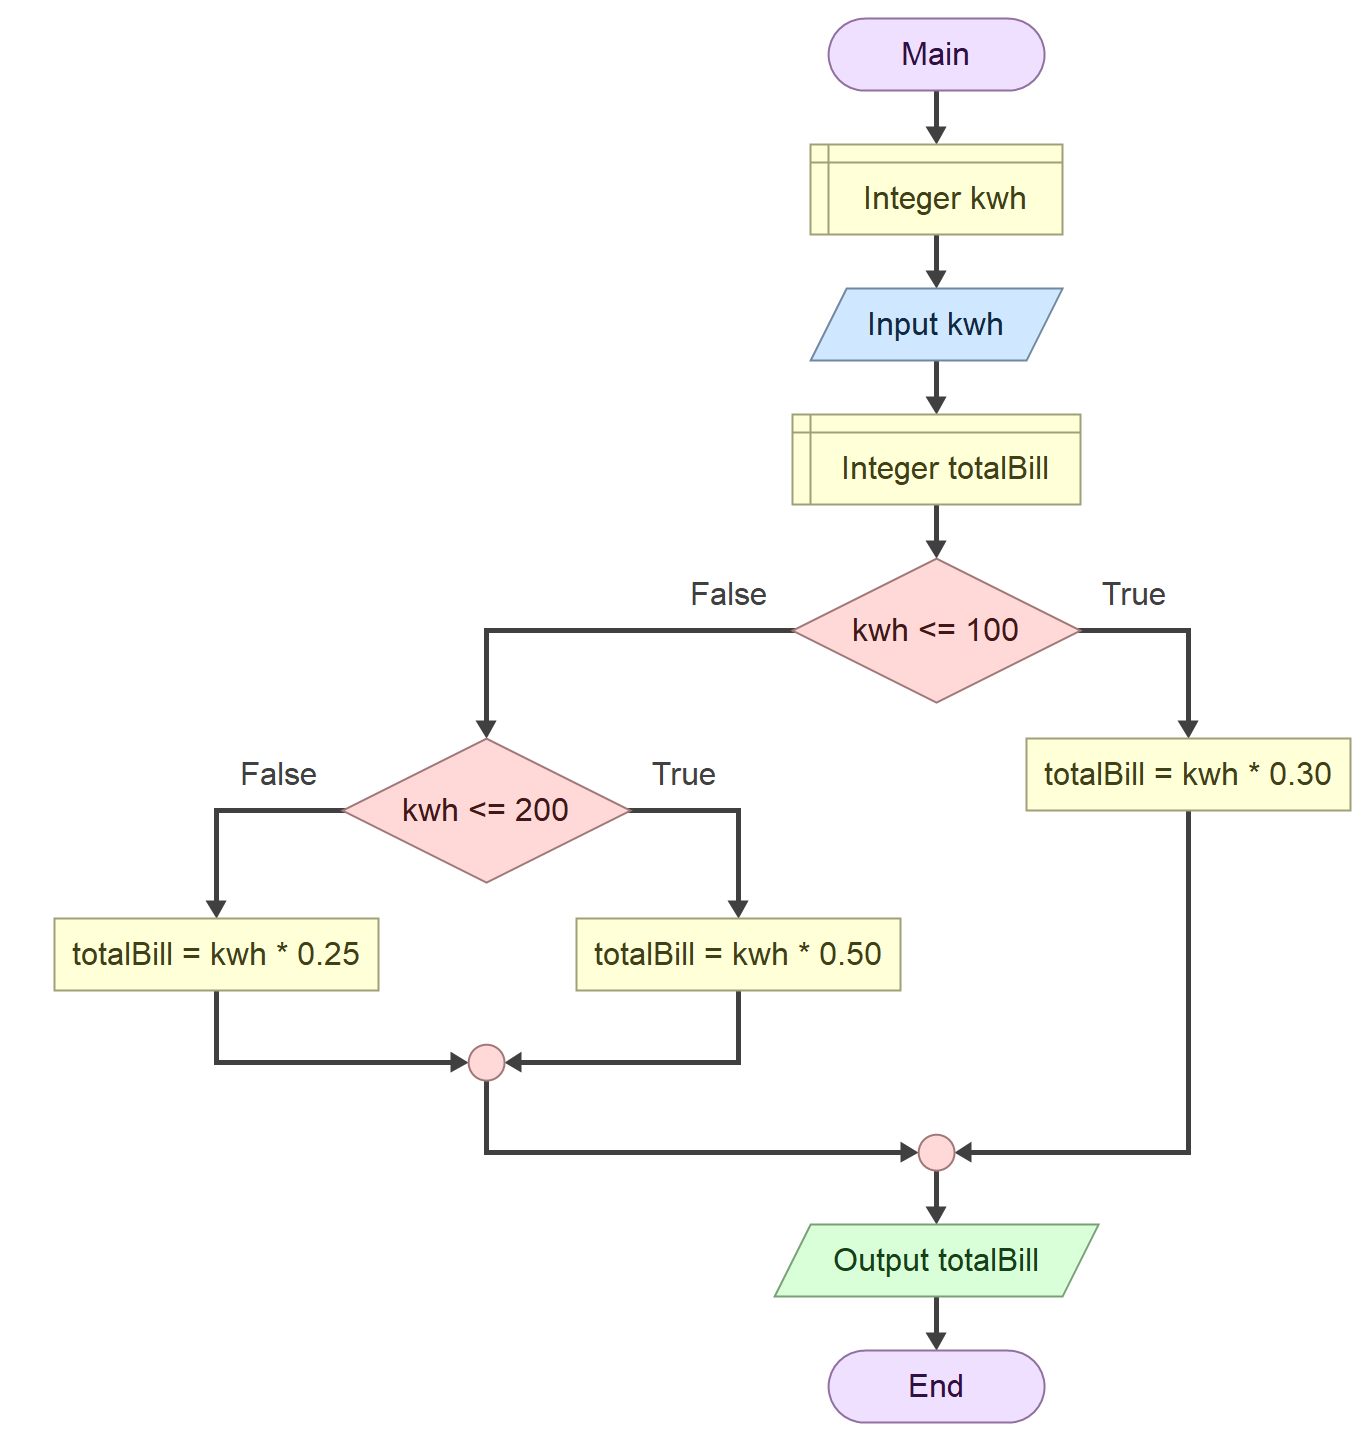
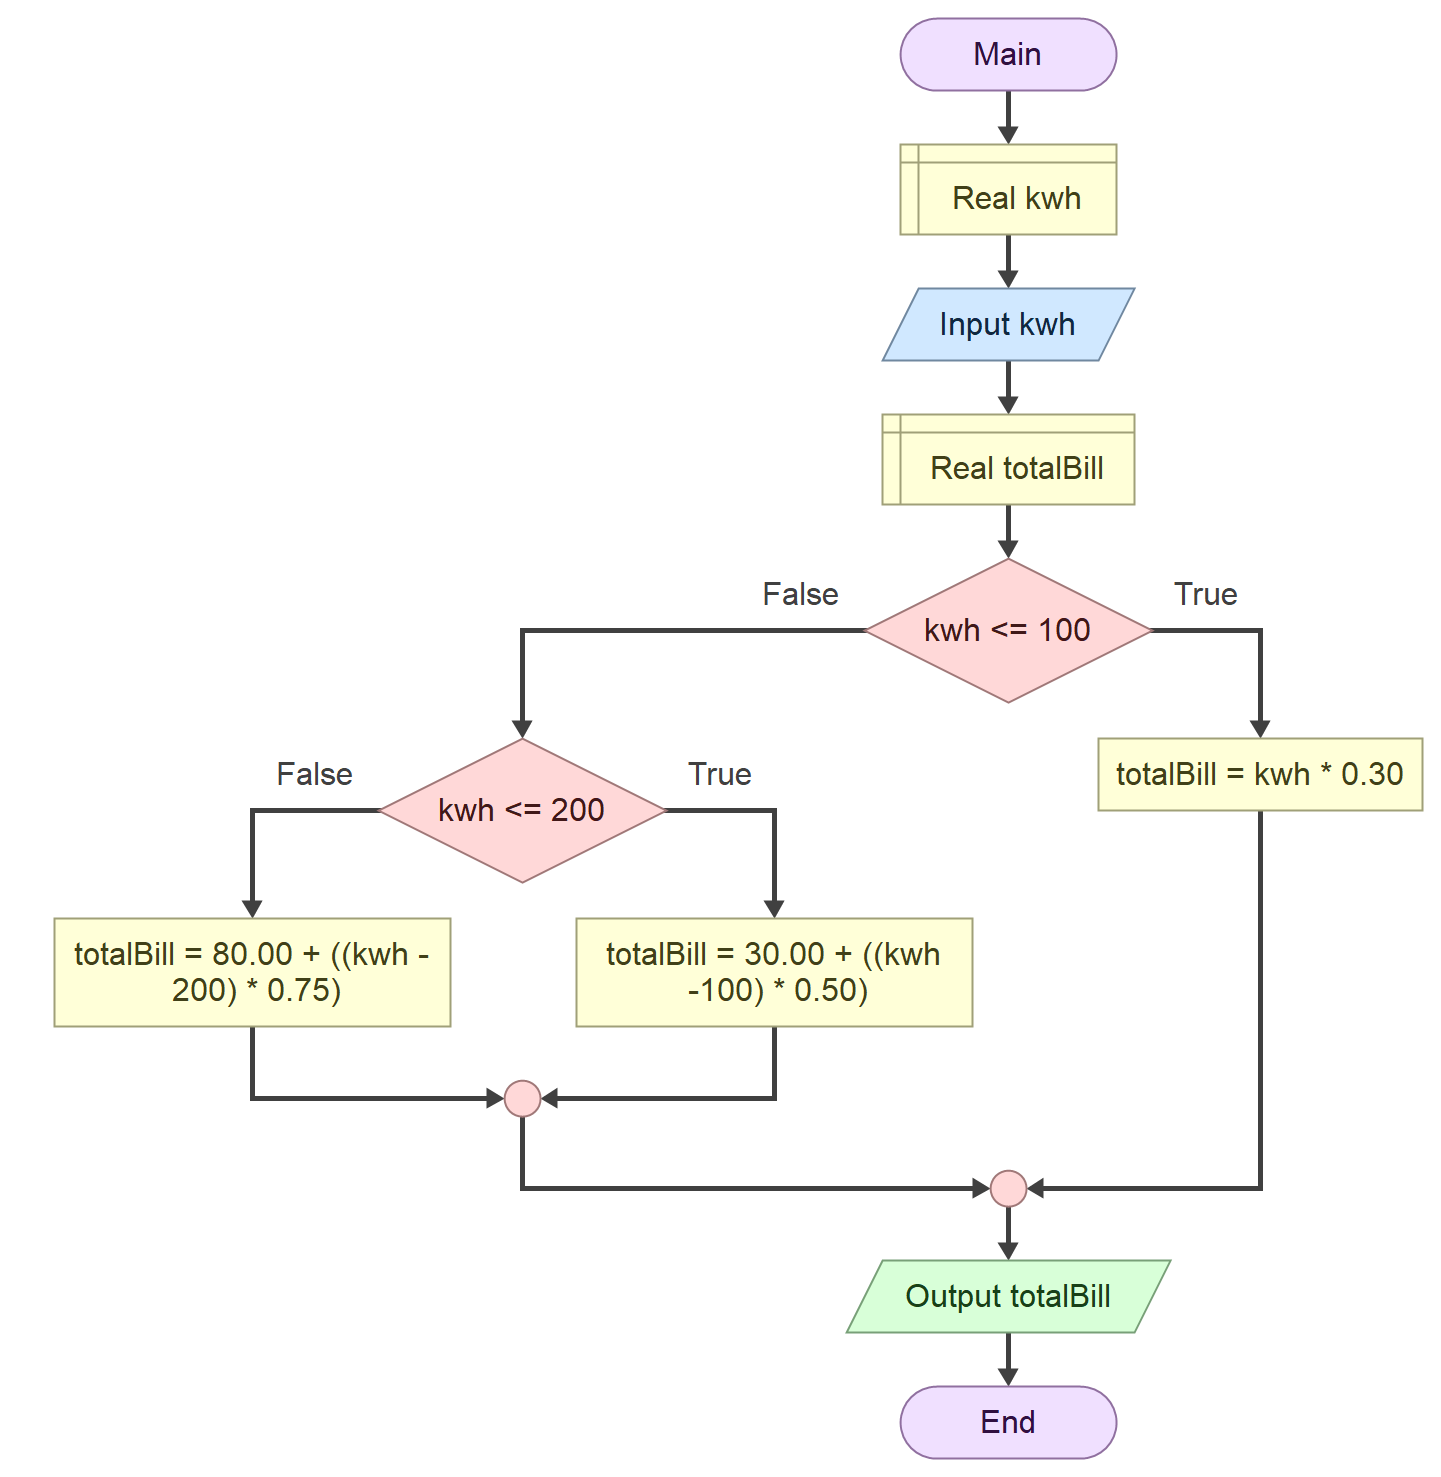
PEMBETULAN2

Changed region(s): [[0.0307, 0.0, 1.0, 0.9993]]

diff --git a/labs/lab04/exercise1/lab-4-1.py b/labs/lab04/exercise1/lab-4-1.py
@@ -1,9 +1,9 @@
-kwh = int(input())
+kwh = float(input())
 if kwh <= 100:
     totalBill = kwh * 0.3
 else:
     if kwh <= 200:
-        totalBill = kwh * 0.5
+        totalBill = 30.0 + ((kwh - 100 ) * 0.5)
     else:
-        totalBill = kwh * 0.25
+        totalBill = 80.0 + ((kwh - 200) * 0.75)
 print(totalBill)